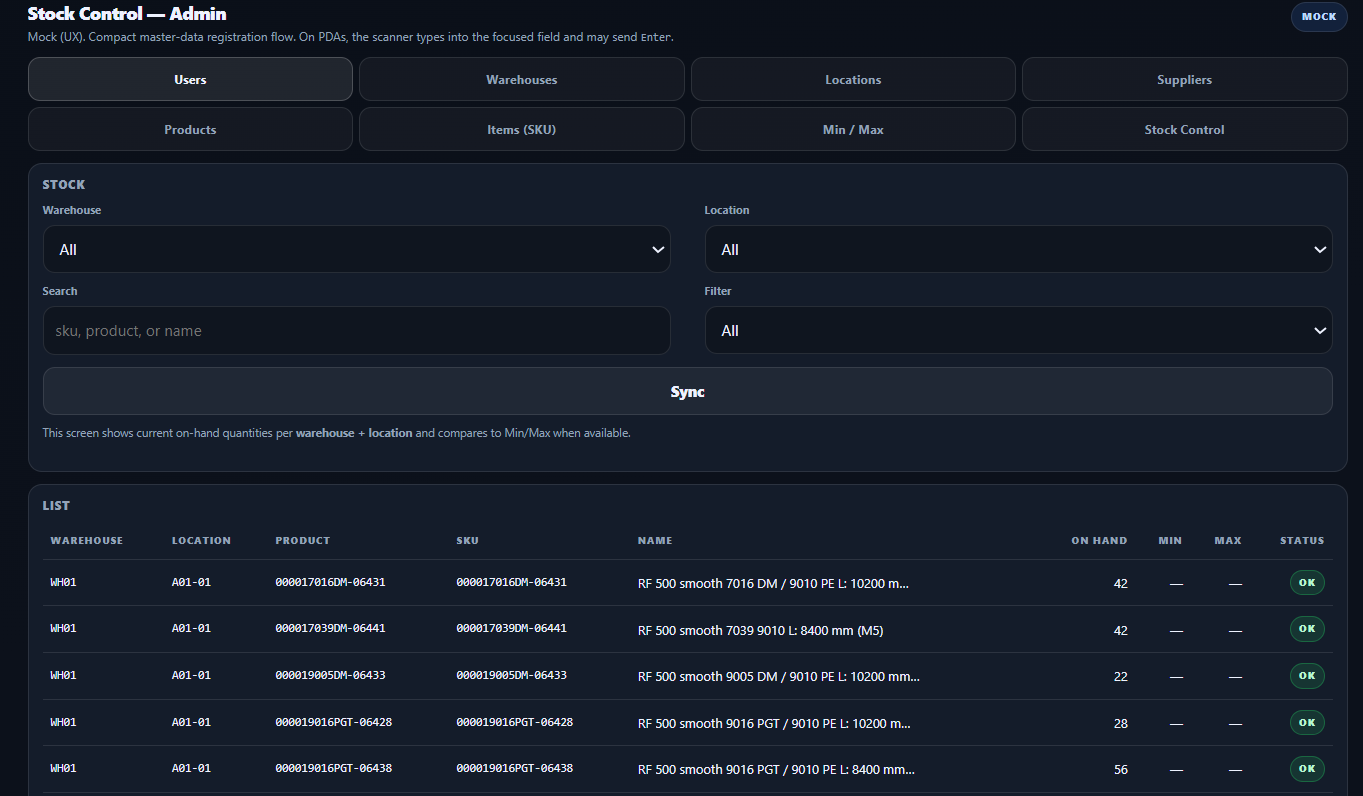
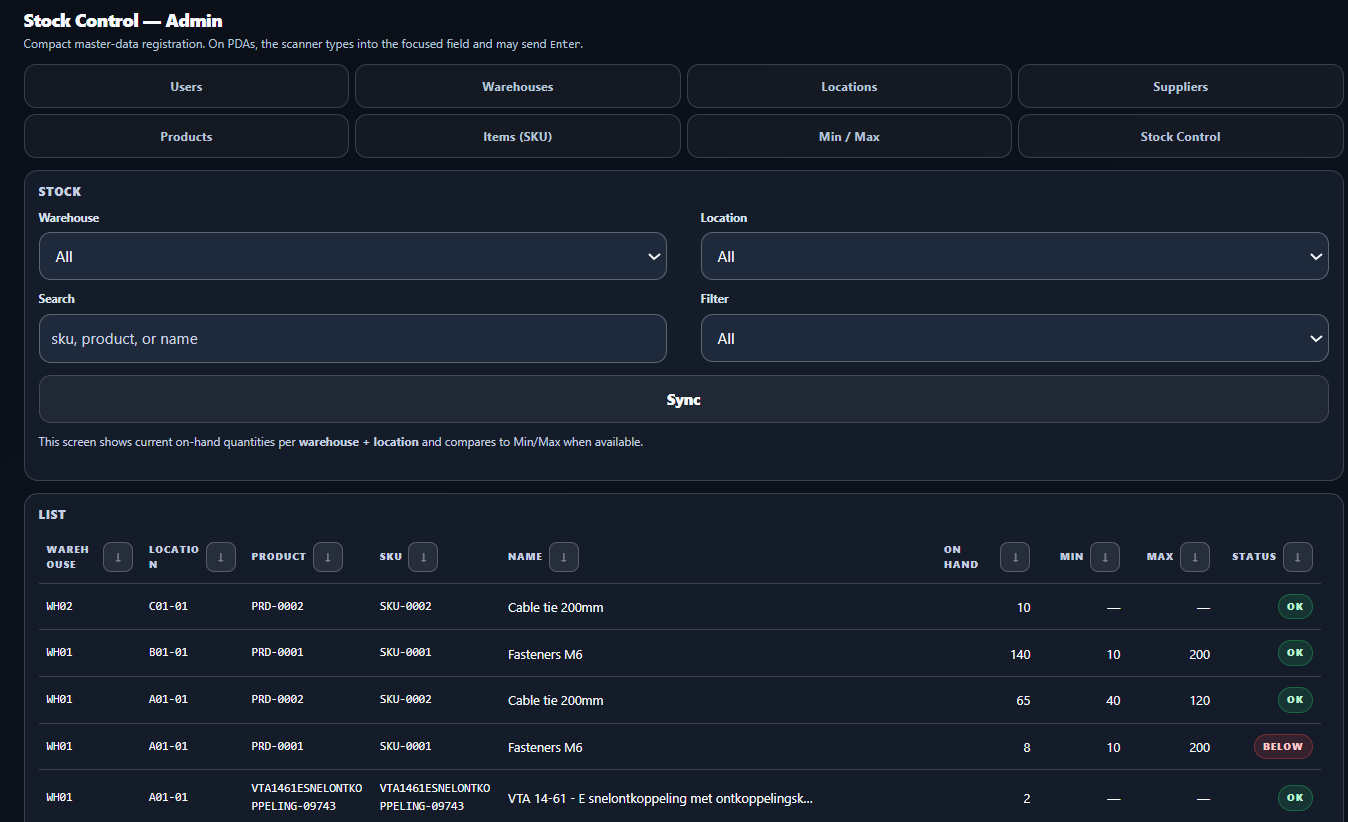
fixes

diff --git a/docs/stock-control-admin-mock.html b/docs/stock-control-admin-mock.html
@@ -589,7 +589,7 @@
           <button class="btn success" type="button" data-toast="Item saved">Save</button>
           <button class="btn danger" type="button" data-toast="Item removed">Delete</button>
         </div>
-        <p class="hint">The operation app uses `item_barcodes` to recognize items from the scanner.</p>
+        <p class="hint">Barcodes are stored on the item (`items.Barcodes`, one code per line). Each code must be unique across all items.</p>
       </section>
 
       <section class="panel">

diff --git a/readme/README-admin-stock.md b/readme/README-admin-stock.md
@@ -25,7 +25,7 @@ Blazor Server **desktop Admin** used to register master data and view stock bala
 | 🧭 **Navigation** | 8 tabs (4 + 4 rows) |
 | ✅ **CRUD** | Create / Edit / Activate / Deactivate |
 | 🔎 **Pagination** | 10 rows per page (Prev/Next) |
-| 🧩 **Min/Max** | Dedicated **Min / Max** tab (`/minmax`): warehouse default + location override |
+| 🧩 **Min/Max** | Dedicated **Min / Max** tab (`/minmax`): targets per warehouse + item + **location** (location required) |
 | 📦 **Stock** | On-hand per Warehouse + Location + Item |
 | 🌐 **Language** | English (UI + validation messages) |
 
@@ -46,8 +46,8 @@ Blazor Server **desktop Admin** used to register master data and view stock bala
 
 ## 🗄️ Database (EF Core)
 
-- Migrations live under `src/StockControl.Admin/Migrations/`. The baseline is a single **`InitialCreate`** migration that creates the full schema (including `suppliers`, product–supplier and item–product links, packaging, and price on items).
-- On an **empty** SQL Server database, apply the schema from the repo root:
+- Migrations: `src/StockControl.Admin/Migrations/`. The Admin app applies pending migrations on startup (`MigrateAsync`).
+- To update the database manually from the repo root:
 
   `dotnet ef database update --project src/StockControl.Admin/StockControl.Admin.csproj --startup-project src/StockControl.Admin/StockControl.Admin.csproj`
 
@@ -60,6 +60,7 @@ Blazor Server **desktop Admin** used to register master data and view stock bala
 - **CRUD**: create/edit + deactivate/activate (no hard delete in the UI).
 - **Validations**: user-friendly messages in English; `maxlength` enforced in inputs.
 - **Feedback**: messages are shown as a **modal** (theme colors). When it is a validation error, closing the modal focuses the field that needs correction.
+- **List sorting**: each grid column header (except **Actions**) has a single-arrow control (**↓** = newest first / descending, **↑** = ascending). Lists load with **newest first** (by row id). Click a column to sort it descending first; click again to toggle to ascending. The active column is highlighted.
 
 ### Stock page — Sync
 
@@ -143,50 +144,40 @@ Blazor Server **desktop Admin** used to register master data and view stock bala
         <ul>
           <li><code>SupplierId</code> required (FK to <code>suppliers</code>, delete restricted)</li>
           <li><code>Code</code> required, unique, ≤ 40 (stored upper-case)</li>
-          <li><code>Name</code> required, ≤ 50</li>
+          <li><code>Name</code> required, ≤ 100</li>
         </ul>
       </td>
     </tr>
     <tr>
       <td><code>items</code></td>
       <td>
-        <code>ProductId</code>, <code>Sku</code>, <code>DisplayName</code>, <code>Unit</code>, <code>PackagingType</code>, <code>PackageQuantity</code>, <code>Price</code>, <code>IsActive</code>
+        <code>ProductId</code>, <code>Sku</code>, <code>ArticleNumber</code>, <code>DisplayName</code>, <code>Unit</code>, <code>PackagingType</code>, <code>PackageQuantity</code>, <code>Price</code>, <code>Barcodes</code>, <code>IsActive</code>
       </td>
       <td>
         <ul>
           <li><code>ProductId</code> required (FK to <code>products</code>, delete restricted)</li>
-          <li><code>Sku</code> required, unique, ≤ 40 (stored upper-case)</li>
-          <li><code>DisplayName</code> required, ≤ 50</li>
+          <li><code>Sku</code> required, unique, ≤ 40 (stored upper-case) — internal stock-keeping code</li>
+          <li><code>ArticleNumber</code> required in DB (default empty), ≤ 50 — supplier / catalog <strong>Artikelnummer</strong>, distinct from <code>Sku</code></li>
+          <li><code>DisplayName</code> required, ≤ 100</li>
           <li><code>Unit</code> required, ≤ 10 (physical unit; <code>stock_balances.QuantityOnHand</code> is expressed in this same unit)</li>
           <li><code>PackagingType</code> stored as <code>int</code> enum: Unit, Box, Case, Pallet, Bag, Kit</li>
           <li><code>PackageQuantity</code> decimal &gt; 0; must be <strong>1</strong> when packaging is <strong>Unit</strong></li>
           <li><code>Price</code> decimal ≥ 0</li>
-        </ul>
-      </td>
-    </tr>
-    <tr>
-      <td><code>item_barcodes</code></td>
-      <td>
-        <code>ItemId</code>, <code>Code</code>, <code>IsActive</code>
-      </td>
-      <td>
-        <ul>
-          <li><code>Code</code> required, unique</li>
-          <li>Inserted from multi-line input (one per line)</li>
+          <li><code>Barcodes</code> required in DB (default empty); newline-separated list of scanner codes; each non-empty line must be unique across all items (enforced in Admin on save)</li>
         </ul>
       </td>
     </tr>
     <tr>
       <td><code>minmax_settings</code></td>
       <td>
-        <code>WarehouseId</code>, <code>ItemId</code>, <code>LocationId</code> (optional), <code>Min</code>, <code>Max</code>, <code>IsActive</code>
+        <code>WarehouseId</code>, <code>ItemId</code>, <code>LocationId</code>, <code>Min</code>, <code>Max</code>, <code>IsActive</code>
       </td>
       <td>
         <ul>
+          <li><code>LocationId</code> required (targets are always per physical location)</li>
           <li><code>Min</code> and <code>Max</code> required, ≥ 0</li>
           <li><code>Max ≥ Min</code></li>
-          <li>Default unique: (<code>WarehouseId</code>, <code>ItemId</code>) where <code>LocationId</code> is NULL</li>
-          <li>Override unique: (<code>WarehouseId</code>, <code>ItemId</code>, <code>LocationId</code>) where <code>LocationId</code> is NOT NULL</li>
+          <li>Unique: (<code>WarehouseId</code>, <code>ItemId</code>, <code>LocationId</code>)</li>
         </ul>
       </td>
     </tr>
@@ -283,7 +274,7 @@ Blazor Server **desktop Admin** used to register master data and view stock bala
         <ul>
           <li><code>Supplier</code> required</li>
           <li><code>Code</code> required, unique, ≤ 40 (stored upper-case)</li>
-          <li><code>Name</code> required, ≤ 50</li>
+          <li><code>Name</code> required, ≤ 100</li>
         </ul>
       </td>
     </tr>
@@ -291,31 +282,33 @@ Blazor Server **desktop Admin** used to register master data and view stock bala
       <td>🧩 <strong>Items (SKU)</strong></td>
       <td>Create / Edit / Activate / Deactivate items, manage barcodes</td>
       <td>
-        <code>Product</code>, <code>Sku</code>, <code>DisplayName</code>, <code>Unit</code>, <code>Packaging type</code>, <code>Package quantity</code>, <code>Price</code>, <code>Barcodes</code>, <code>Status</code>
+        <code>Product</code>, <code>Sku</code>, <code>Article number</code>, <code>DisplayName</code>, <code>Unit</code>, <code>Packaging type</code>, <code>Package quantity</code>, <code>Price</code>, <code>Barcodes</code>, <code>Status</code>
       </td>
       <td>
         <ul>
           <li><code>Product</code> required</li>
           <li><code>Sku</code> required, unique, ≤ 40 (stored upper-case)</li>
-          <li><code>DisplayName</code> required, ≤ 50</li>
+          <li><code>Article number</code> optional in UI (blank stored as empty string); ≤ 50</li>
+          <li><code>DisplayName</code> required, ≤ 100</li>
           <li><code>Unit</code> required, ≤ 10</li>
           <li><code>Package quantity</code> &gt; 0; must be <strong>1</strong> when packaging is <strong>Unit</strong></li>
           <li><code>Price</code> ≥ 0</li>
-          <li>Barcodes: one per line; <code>item_barcodes.Code</code> is unique</li>
+          <li>Barcodes: one per line; each code must be unique across all items (stored in <code>items.Barcodes</code>)</li>
         </ul>
       </td>
     </tr>
     <tr>
       <td>📊 <strong>Min / Max</strong></td>
-      <td>Create / Edit / Activate / Deactivate Min/Max targets per warehouse (and optional location override)</td>
+      <td>Create / Edit / Activate / Deactivate Min/Max targets per warehouse + item + location</td>
       <td>
-        <code>Warehouse</code>, <code>Item</code>, <code>Location</code> (optional), <code>Min</code>, <code>Max</code>, <code>Status</code>
+        <code>Warehouse</code>, <code>Item</code>, <code>Location</code>, <code>Min</code>, <code>Max</code>, <code>Status</code>
       </td>
       <td>
         <ul>
           <li>Route <code>/minmax</code></li>
+          <li><code>Warehouse</code>, <code>Item</code>, and <code>Location</code> required</li>
           <li><code>Min</code>, <code>Max</code> required, ≥ 0 and <code>Max ≥ Min</code></li>
-          <li>Uniqueness: default (<code>Warehouse</code>+<code>Item</code>) where Location is NULL; override (<code>Warehouse</code>+<code>Item</code>+<code>Location</code>) where Location is NOT NULL</li>
+          <li>Uniqueness: one row per (<code>Warehouse</code>+<code>Item</code>+<code>Location</code>)</li>
         </ul>
       </td>
     </tr>
@@ -323,7 +316,7 @@ Blazor Server **desktop Admin** used to register master data and view stock bala
       <td>📦 <strong>Stock</strong></td>
       <td>View on-hand quantities by warehouse + location + item, compare to Min/Max</td>
       <td>
-        Filters: <code>Warehouse</code>, <code>Location</code>, <code>Search</code> (SKU, product code, or name), <code>Below/Above</code>
+        Filters: <code>Warehouse</code>, <code>Location</code>, <code>Search</code> (SKU, article number, product code, or name), <code>Below/Above</code>
       </td>
       <td>
         <ul>

diff --git a/readme/README-operation-stock-pda.md b/readme/README-operation-stock-pda.md
@@ -55,7 +55,7 @@ Scan-driven **operation app** built with **.NET MAUI for Android** for fast ware
 1. **Scan location**
    - Validate size (≤ 12) and existence/active status.
 2. **Scan item**
-   - Accept any code present in `item_barcodes.code`.
+   - Accept any barcode line stored on the item (`items.Barcodes`, newline-separated).
 3. **Enter quantity**
    - Default = 1; numeric keypad; minimal validation.
 4. **Confirm action**
@@ -65,7 +65,7 @@ Scan-driven **operation app** built with **.NET MAUI for Android** for fast ware
 ## ✅ 5. Rules & validations (MVP)
 
 - **Location**: code ≤ 12; must exist and be active.
-- **Item**: code must exist and be active.
+- **Item**: scanned or typed code must match an active item (typically **SKU** or a **barcode** from `items.Barcodes`; **article number** is maintained in Admin for catalog alignment, not necessarily what the scanner sends).
 - **Quantity**: > 0.
 - **Negative stock**: business decision in MVP
   - Option A: block `OUT` if balance is insufficient
@@ -75,7 +75,7 @@ Scan-driven **operation app** built with **.NET MAUI for Android** for fast ware
 ## 🔌 6. Data consumed/sent (API)
 
 - **Read**
-  - `warehouses`, `locations`, `items`, `item_barcodes`, `minmax_settings` (or equivalent API surface for min/max)
+  - `warehouses`, `locations`, `items` (including `Barcodes`), `minmax_settings` (or equivalent API surface for min/max)
   - `stock_balances` (for lookup/alerts)
 - **Write**
   - `stock_movements` (immutable lines)